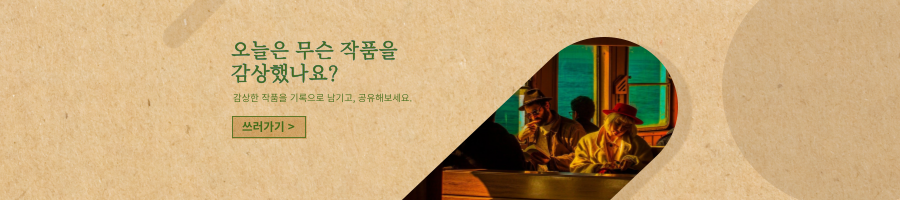
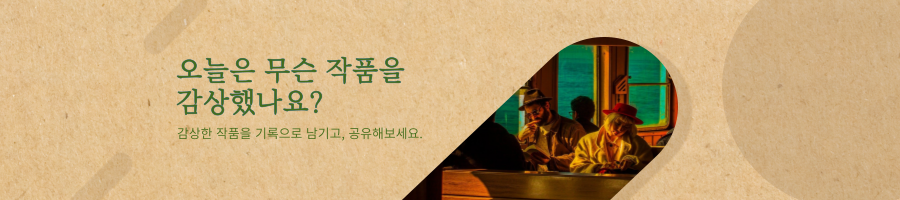
design : updatepost fix

Changed region(s): [[0.1867, 0.45, 0.4667, 0.72], [0.1867, 0.18, 0.4667, 0.42]]

diff --git a/src/main/resources/templates/post/updatePost.html b/src/main/resources/templates/post/updatePost.html
@@ -32,7 +32,7 @@
     <form th:action="@{'/update/' + ${post.postCode}}" method="post" th:object="${post}" enctype="multipart/form-data">
 
 		<div class="post_topwrap">
-  			<div class="post_topleft">		
+  			<div class="post_topleft" style="width: 352px;">		
 				<p class="p1">게시글을 수정하는 페이지입니다.</p>
 				<p class="p2">수정할 내용을 입력하세요</p>
 				
@@ -64,13 +64,20 @@
 		</div>
 	</div>
 		<input id="stars" th:field="*{starCount}" value="" type="hidden">
-			
-		<label class="title_lb">제목<span></span>
-			<input class="posttitle" th:field="*{title}" placeholder="게시글 제목을 입력해주세요">
-		</label>
+		
+
+		<div class="titlearea">
+			<label class="title_lb">제목<span></span>
+				<input class="posttitle" th:field="*{title}" placeholder="게시글 제목을 입력해주세요">
+			</label>
+			<div class="error"  th:errors="*{title}"></div>
+		</div>
+		
 		<div class="content_wrap">
-		 <p>내용</p>
-		 
+			<div>
+				<p>내용</p>
+				<p class="error" th:errors="*{content}"></p>
+			</div> 
 		<textarea id="summernote" name="editordata"  th:utext="*{content}" th:field="*{content}"></textarea>
 		<button id="submitBtn" class="submitBtn"type="submit">업로드</button>
 		</div>

diff --git a/src/main/resources/static/css/post.css b/src/main/resources/static/css/post.css
@@ -123,9 +123,9 @@ transition: filter linear .3s;
 .post_topmid{
     padding-right: 40px;
 }
-.post_topright{
+/* .post_topright{
     padding-right: 40px;
-}
+} */
 
 .searchModalButton {
     margin: 0;
